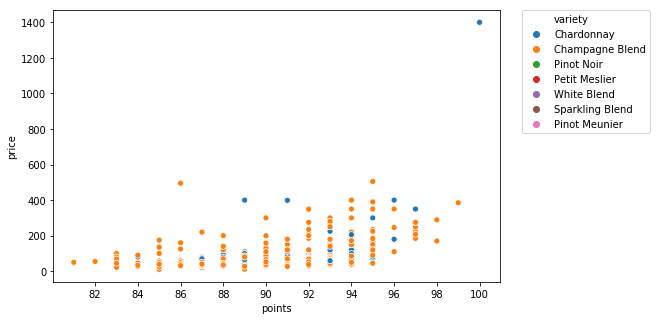
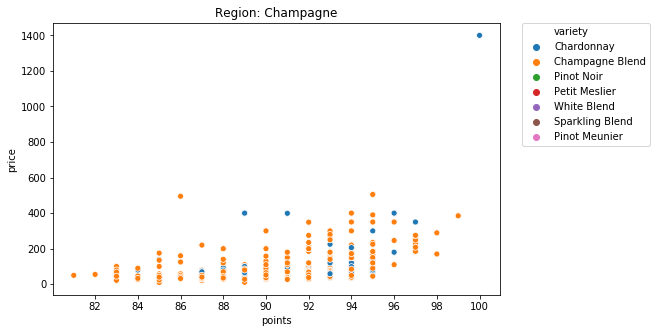
trying to adjust image layout and finalize data.html

diff --git a/templates/data.html b/templates/data.html
@@ -30,41 +30,42 @@
 		<!-- Three -->
 			<section id="three" class="wrapper">
 				<div class="inner">
+
 					<header class="align-center">
 						<h2>Looking at the data!</h2>
-
 					</header>
-					<div class="image square center">
-						<img src="../static/images/points_price.png"/>
-					</div>
-					<p>The distribution of points given by expert wine reviewers by prices (USD) for all 130k bottles. We can already see a couple of wines standing out as being very well reviewed and priced much higher than other bottles.</p>
+            <section id="three" class="wrapper align-center">
+                <div class="inner">
+                    <div class="flex flex-1">
+                        <article>
+                            <div class="image square center">
+                                <img src="../static/images/points_price.png"/>
+                            </div>
+                            <p>Data was taken from <a href="https://winemag.com">winemag.com</a>, a wine enthusiast publication with descriptions, reviews and, most importantly, ratings for a wide variety of wines. Expert reviewers taste more than 24,000 wines from across the globe every year, covering everything from France and Italy to California, Australia, South Africa, Argentina and beyond and act as an extensive resource of information for all things wine. With just a quick look at the distribution of prices by points for around 130k bottles of wine, we can already see a couple of varieties standing out as being exceptional choices!</p>
+                            
+                            <div class="image square center">
+                                <img src="../static/images/bordeaux.png" />
+                            </div>
+                            <p>Taking a deeper dive and zooming in on specific regions, France for example, we see that bordeaux dominates the region of its namesake.</p>  
 
-					<div class="image square right">
-						<img src="../static/images/bordeaux.png" alt="Pic 02" />
-					</div>
-					<p>If we take a closer look at the data, zooming in on specific regions of France for example, we see that bordeaux dominates the region of its namesake.</p>                    
-                    
-					<div class="image square left">
-						<img src="../static/images/champagne.png" alt="Pic 02" />
-					</div>
-					<p>Surprisingly Chardonnay is in fact the most expensive and highest rated wine despite this being the region of Champagne!</p>
-                    
-					<div class="image square left">
-						<img src="../static/images/word_cloud_char.png" alt="Pic 02" />
-					</div>
-					<p>At vero eos et accusamus et iusto odio dignissimos ducimus qui blanditiis praesentium voluptatum deleniti atque corrupti quos dolores et quas molestias excepturi sint occaecati cupiditate non provident, similique sunt in culpa qui officia deserunt mollitia animi, id est laborum et dolorum fuga. Et harum quidem.</p>
-                    
-					<div class="image square left">
-						<img src="../static/images/word_cloud_bor.png" alt="Pic 02" />
-					</div>
-					<p>At vero eos et accusamus et iusto odio dignissimos ducimus qui blanditiis praesentium voluptatum deleniti atque corrupti quos dolores et quas molestias excepturi sint occaecati cupiditate non provident, similique sunt in culpa qui officia deserunt mollitia animi, id est laborum et dolorum fuga. Et harum quidem.</p>                    
+                            <div class="image square center">
+                                <img src="../static/images/champagne.png" />
+                            </div>
+                            <p>Surprisingly, however when we look at Champagne, it is in fact a Chardonnay that shows as the most expensive and highest rated wine from the data! This then begged the question: what is it about these particular wines that make them so special?</p>
 
+                            <div class="image square center">
+                                <img src="../static/images/chardonnay_france.png" />
+                            </div>
+                            <p>We can begin to extract the words that contribute to the overall quality of the wine. Flavors of buttered toast? Fruity? It appears these are distinguishing features of a Chardonnay!</p>
+                        </article>
+                    </div>
+                </div>
+            </section>   
+            
 					<div class="image square center">
-						<img src="../static/images/schematic.jpg" alt="Pic 02" />
+                        <h3>Training our palate</h3>
+						<img src="../static/images/schematic.png" alt="Pic 02" />
 					</div>
-					<p>SomMLier uses 5 main features in its model.</p>                      
-                    
-					<p>f</p>
 
 								<!-- Preformatted Code -->
 <h3>Coefficient of determination</h3>
